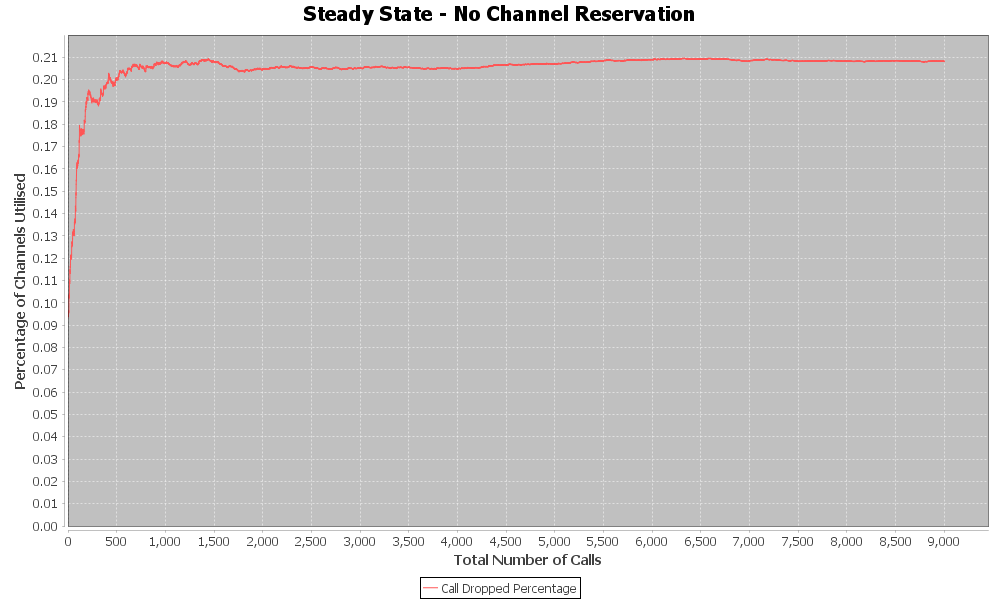
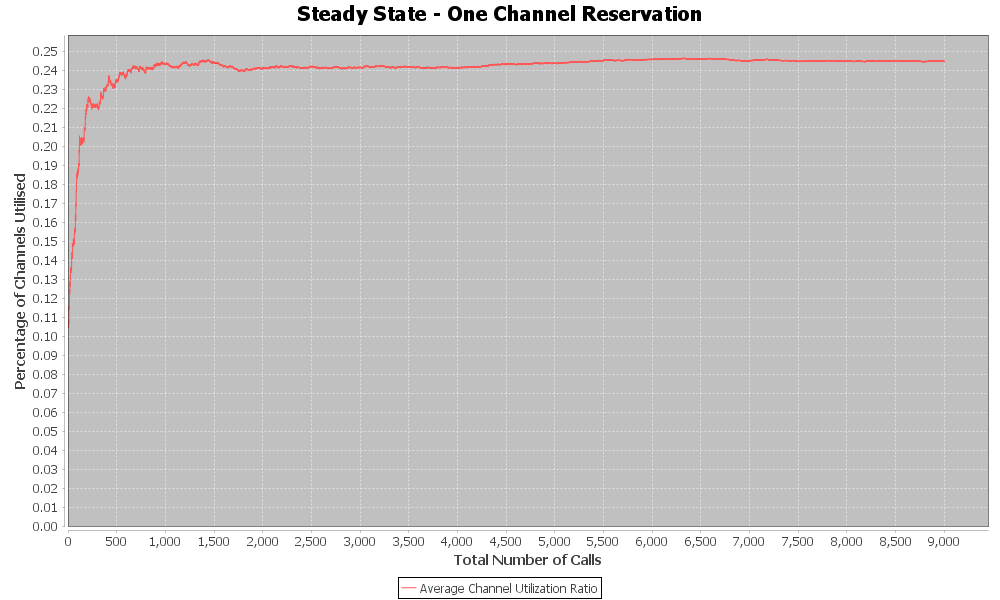
Fixed distribution generation modules

diff --git a/src/main/java/main/StochasticData.java b/src/main/java/main/StochasticData.java
@@ -3,7 +3,9 @@ package main;
 import java.util.ArrayList;
 import java.util.List;
 
+import org.apache.commons.math3.distribution.ExponentialDistribution;
 import org.apache.commons.math3.distribution.NormalDistribution;
+import org.apache.commons.math3.distribution.UniformIntegerDistribution;
 
 /**
  * 
@@ -14,16 +16,49 @@ public class StochasticData {
 
 	public static void main(String[] args) {
 		List<CallData> listCallData = new ArrayList<CallData>();
-		for(int i = 0;i<1000;i++){
-			CallData data = new CallData(0,0,0,0,normalStochasticData(1,100));
+		double previousCall = 0;
+		for (int i = 0; i < 20000; i++) {
+			double callTime =  previousCall + Math.abs(exponentialStochasticData(1.3698));
+			previousCall = callTime;
+			CallData data = new CallData(i + 1, callTime,
+					uniformStochasticData(1, 20), exponentialStochasticData(99.8359), normalStochasticData(1, 100));
 			listCallData.add(data);
 		}
 		AnalyzeInput.generateVelocityHistogram(listCallData);
+		AnalyzeInput.generateCallDurationHistogram(listCallData);
+		AnalyzeInput.generateInterArrivalTimeHistogram(listCallData);
+		AnalyzeInput.generateBaseStationHistogram(listCallData);
 	}
-	
-	public static double normalStochasticData(double mean, double standardDeviation){
-		NormalDistribution distribution = new NormalDistribution(mean,standardDeviation);
+
+	/**
+	 * 
+	 * @param mean
+	 * @param standardDeviation
+	 * @return
+	 */
+	public static double normalStochasticData(double mean, double standardDeviation) {
+		NormalDistribution distribution = new NormalDistribution(mean, standardDeviation);
 		return distribution.sample();
 	}
-	
+
+	/**
+	 * 
+	 * @param mean
+	 * @return
+	 */
+	public static double exponentialStochasticData(double mean) {
+		ExponentialDistribution distribution = new ExponentialDistribution(mean);
+		return distribution.sample();
+	}
+
+	/**
+	 * 
+	 * @param lowerBound
+	 * @param upperBound
+	 * @return
+	 */
+	public static int uniformStochasticData(int lowerBound, int upperBound) {
+		UniformIntegerDistribution distribution = new UniformIntegerDistribution(lowerBound, upperBound);
+		return distribution.sample();
+	}
 }

diff --git a/src/main/java/main/Simulation.java b/src/main/java/main/Simulation.java
@@ -26,7 +26,7 @@ public class Simulation {
 		 * Properties for plotting
 		 */
 		XYSeriesCollection dataset = new XYSeriesCollection();
-		XYSeries series1 = new XYSeries("Call Dropped Percentage");
+		XYSeries series1 = new XYSeries("Average Channel Utilization Ratio");
 		XYSeries series2 = new XYSeries("Call Blocked Percentage");
 
 		List<Double> dropped = new ArrayList<Double>();
@@ -41,8 +41,8 @@ public class Simulation {
 				distributions[range] = new UniformRealDistribution(0,2.0);
 			
 			for (int i = 0; i < 21; i++) {
-				channelsAvailable[i][0] = 10;
-				channelsAvailable[i][1] = 0;
+				channelsAvailable[i][0] = 9;
+				channelsAvailable[i][1] = 1;
 			}
 			int callDropped = 0;
 			int callCompleted = 0;
@@ -187,7 +187,7 @@ public class Simulation {
 
 		for (int i = 0; i < 9000; i++) {
 			//series1.add(i + 1, (dropped.get(i)*numChannelsFree.get(i) / (1 * (i + 1)*200*1000)));
-			series1.add(i+1,numChannelsFree.get(i)/(1000*(i+1)*200));
+			series1.add(i+1,numChannelsFree.get(i)/(1000*(i+1)*180));
 			series2.add(i + 1, (blocked.get(i)*numChannelsFree.get(i) / (1 * (i + 1)*200*1000)));
 		}
 		System.out.println("Count Blocked: " + blocked.size());
@@ -197,7 +197,7 @@ public class Simulation {
 		System.out.println(series1.getItemCount());
 		System.out.println(series2.getItemCount());
 		GenerateGraphs xyPlot = new GenerateGraphs();
-		xyPlot.generateLineChart(dataset, directory + "Warm-up.png", "Steady State - No Channel Reservation",
+		xyPlot.generateLineChart(dataset, directory + "Warm-up.png", "Steady State - One Channel Reservation",
 				"Total Number of Calls", "Percentage of Channels Utilised");
 
 	}

diff --git a/src/main/java/main/AnalyzeInput.java b/src/main/java/main/AnalyzeInput.java
@@ -25,7 +25,7 @@ public class AnalyzeInput {
 	 * 
 	 * @param callData
 	 */
-	private static void generateBaseStationHistogram(List<CallData> callData) {
+	public static void generateBaseStationHistogram(List<CallData> callData) {
 		if (callData == null || callData.size() == 0)
 			return;
 		double[] values = new double[callData.size()];
